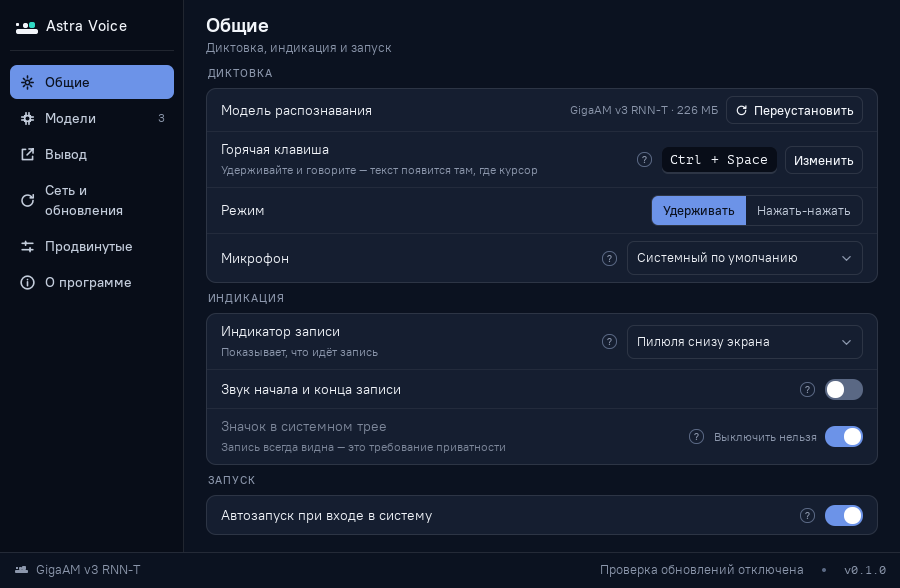
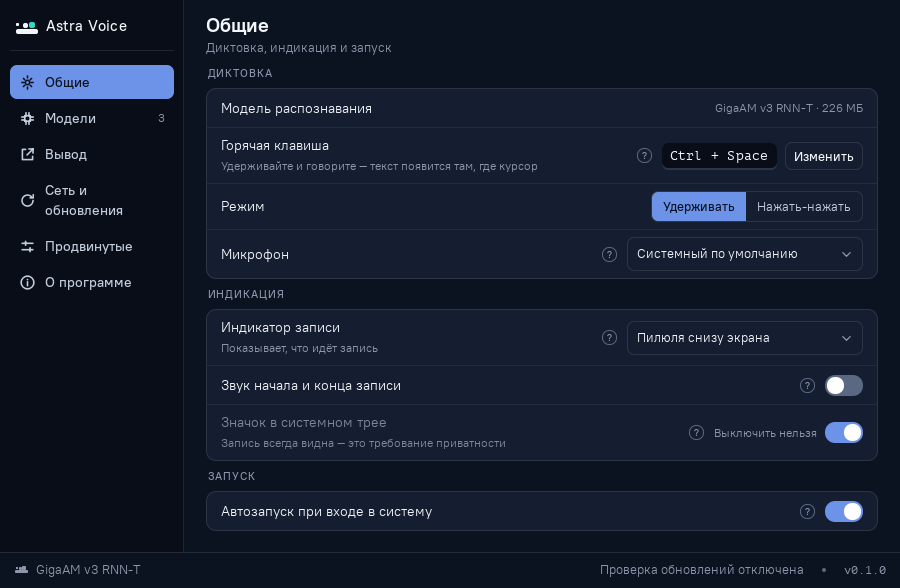
«Переустановить» только при проблеме с моделью, в норме строка без кнопки

diff --git a/qml/sections/General.qml b/qml/sections/General.qml
@@ -119,11 +119,14 @@ Column {
                 onClicked: if (root.settings) root.settings.cancelDownloads()
             }
 
+            // В норме кнопки нет: рабочую модель трогать незачем, а соблазн
+            // перекачать 226 МБ без причины — вред. Показываем только когда
+            // с моделью что-то не так или её нет вовсе (решение 22.09).
             AvButton {
                 text: root.canInstall ? qsTr("Установить") : qsTr("Переустановить")
                 small: true
                 iconName: root.canInstall ? "download" : "refresh"
-                visible: !root.busyWithModel
+                visible: !root.busyWithModel && root.activeModelState !== "ok"
                 enabled: root.settings !== null
                     && (root.canInstall ? root.settings.canInstall : root.settings.canReinstall)
                 Layout.alignment: Qt.AlignVCenter

diff --git a/tests/xvfb/test_onboarding.py b/tests/xvfb/test_onboarding.py
@@ -1868,6 +1868,8 @@ def test_done_updates_when_model_becomes_ready(onboarding_app: Any, dark: bool) 
 @pytest.mark.parametrize("dark", [False, True], ids=["light", "dark"])
 def test_settings_reinstall_calls_bridge(onboarding_app: Any, dark: bool) -> None:
     fake = FakeSettings()
+    # У исправной модели кнопки нет: перекачивать рабочую модель незачем.
+    fake.activeModelState = "broken"
 
     def inspect(window: Any) -> None:
         button = visible_button(window.contentItem(), "Переустановить")
@@ -1878,3 +1880,19 @@ def test_settings_reinstall_calls_bridge(onboarding_app: Any, dark: bool) -> Non
 
     _, messages = render_settings(onboarding_app, dark, fake=fake, inspect=inspect)
     assert_no_messages(messages, "reinstall active model")
+
+
+@pytest.mark.parametrize("dark", [False, True], ids=["light", "dark"])
+def test_settings_hides_model_button_when_model_is_ok(onboarding_app: Any, dark: bool) -> None:
+    """Рабочая модель не предлагает себя перекачать: кнопки в норме нет."""
+    fake = FakeSettings()
+    fake.activeModelState = "ok"
+
+    def inspect(window: Any) -> None:
+        texts = visible_texts(window.contentItem())
+        assert "Переустановить" not in texts
+        assert "Установить" not in texts
+        assert fake.activeModelName in " ".join(texts)
+
+    _, messages = render_settings(onboarding_app, dark, fake=fake, inspect=inspect)
+    assert_no_messages(messages, "model row without button")

diff --git a/decisions/log.md b/decisions/log.md
@@ -2023,3 +2023,13 @@
   (б) человек начал говорить раньше нажатия — лечится только постоянным кольцевым буфером, то есть всегда открытым
   микрофоном, что прямо противоречит обещанию «запись только по клавише и всегда видна». **Решение Юрки:** (а) и хвост
   делаем в M6; постоянный буфер — отдельный вопрос заказчику с оценкой рисков, по умолчанию выключен, честный текст.
+
+## 2026-09-22 — «Переустановить» показывается только при проблеме (вопрос заказчика)
+- Заказчик: «а зачем кнопка "Переустановить" для модели?» По существу верно: рабочей модели она не нужна, а
+  на видном месте соблазняет перекачать 226 МБ без причины. Появилась она из моего решения 17.09 «после мастера
+  моделью управлять негде» — задача была дать выход, а не кнопку на каждый день.
+- **Решение:** в «Общих» кнопка видна только когда модель не в порядке: файлы повреждены, загрузка не удалась,
+  не хватило места, каталог недоступен или модели нет вовсе (тогда «Установить»). В норме строка показывает
+  «GigaAM v3 RNN-T · 226 МБ» и всё. Полноценное управление (сделать рабочей, удалить, переустановить) — в разделе
+  «Модели» вехи M6, где ему и место.
+- Тест на новое поведение: у исправной модели кнопки нет, имя и размер видны.
